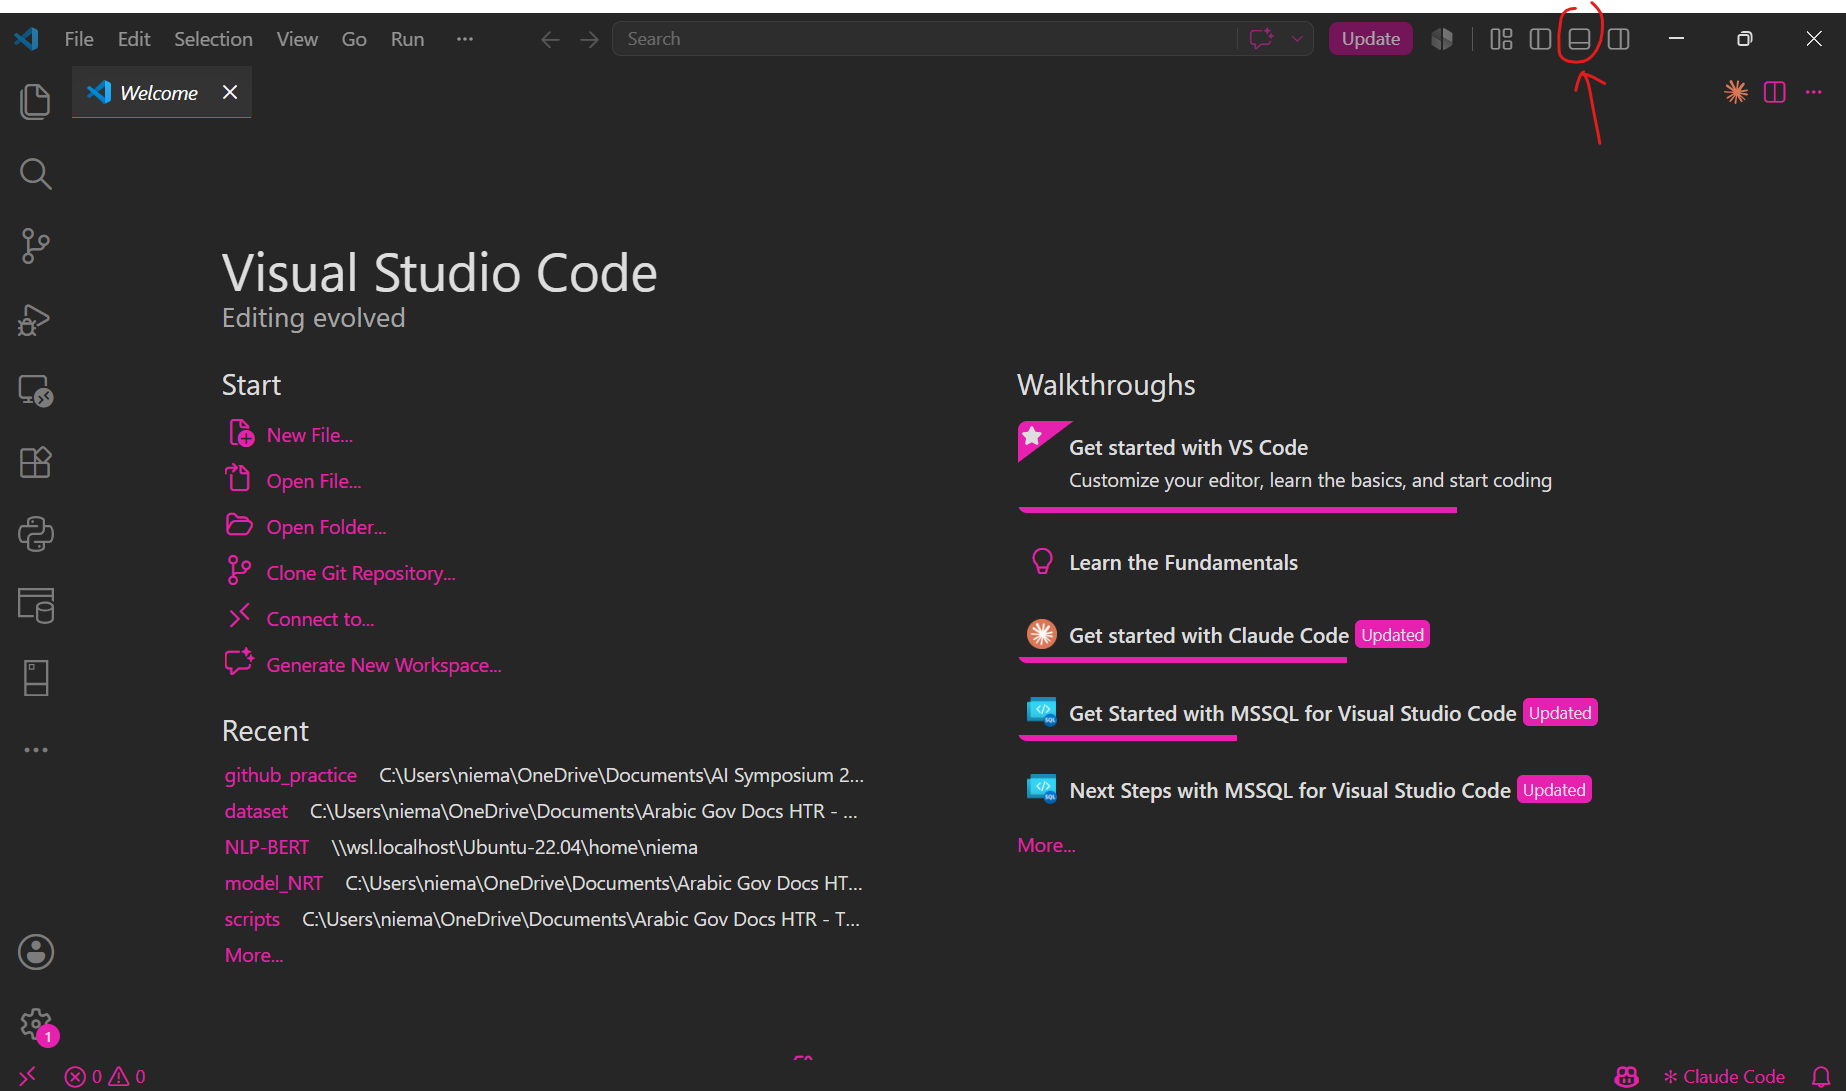
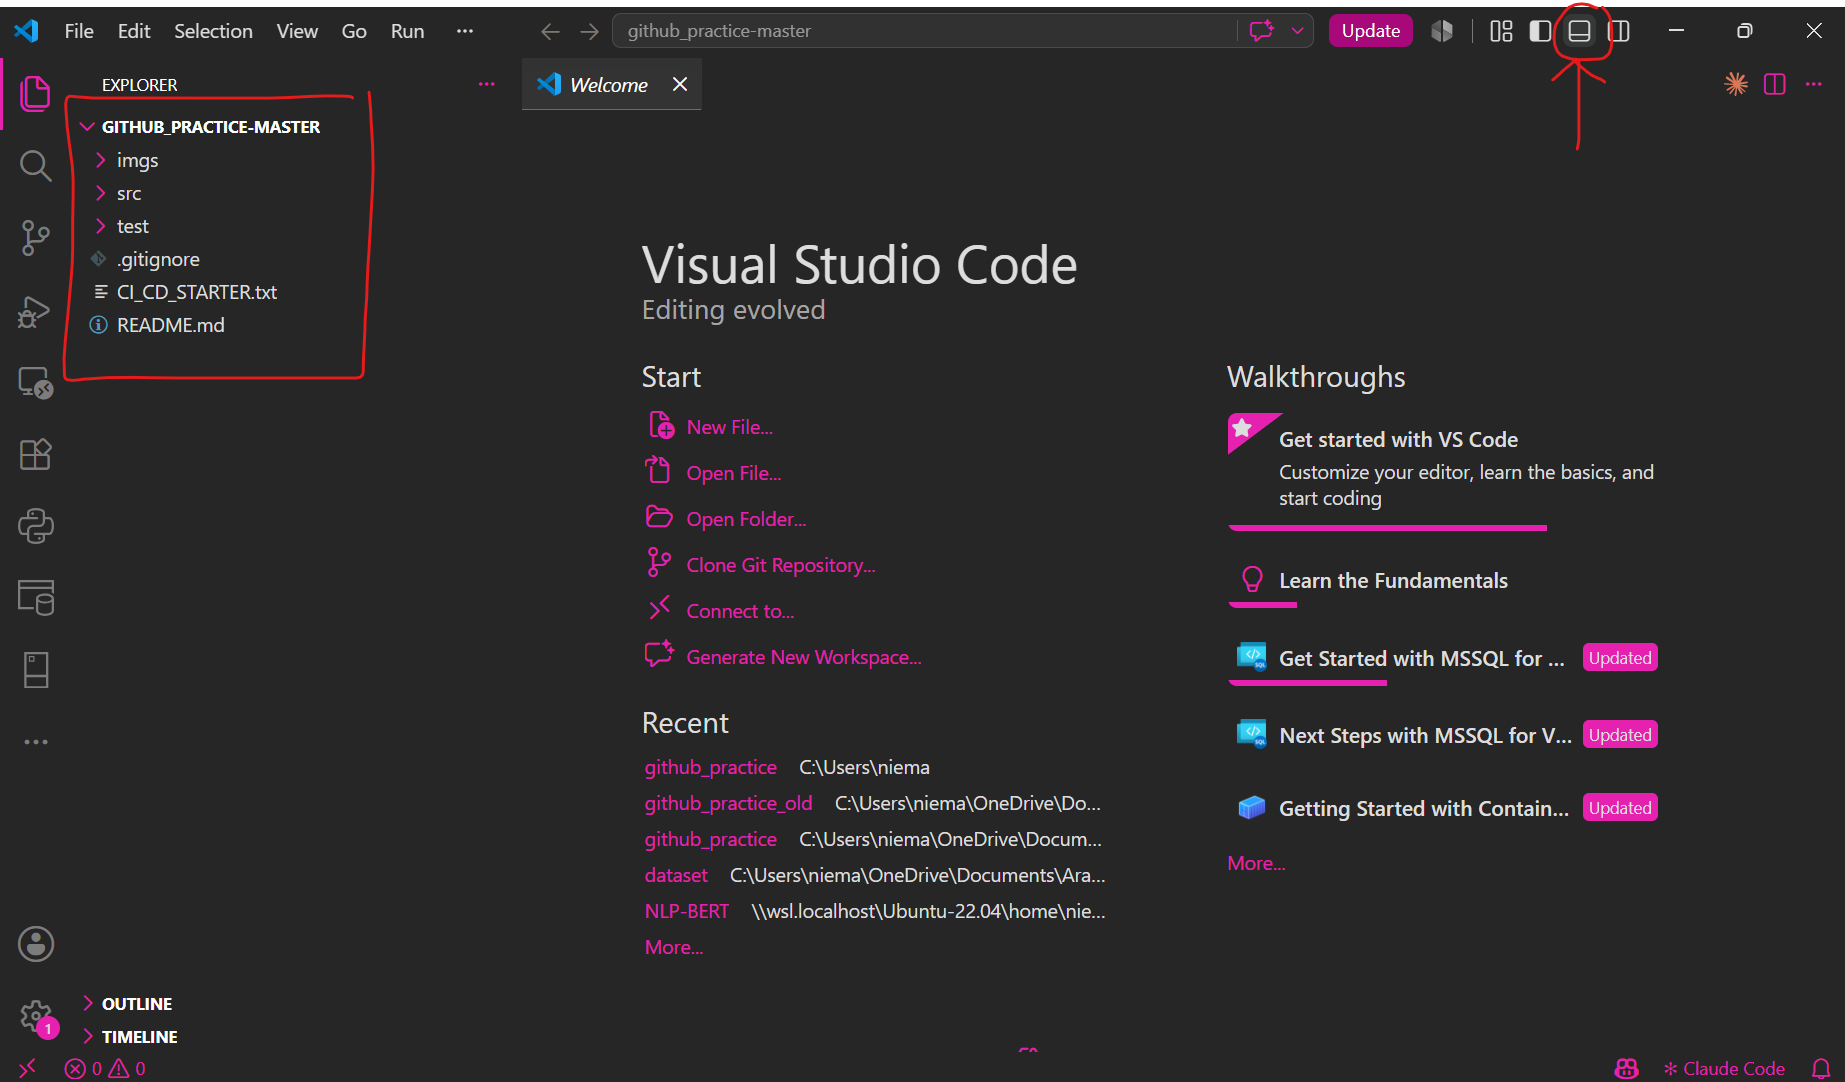
update tuto

diff --git a/README.md b/README.md
@@ -11,48 +11,82 @@ This project is a simple web calculator, use it to practice Github collaboration
 ## install node.js if not installed yet:
 - download from: [nodejs website](https://nodejs.org/)
 - verify that it is installed correctly:
+
+> run in your terminal
+
 ```bash
 node -v
 npm -v
 ```
 you should see something like:
-```bash
-v24.11.1
-```
 
-## 0. Open new window on VsCode then git bash (terminal if on mac or linux)
+![0](imgs/npm_working.png)
 
-![0](imgs/open_new_window.png) ![0](imgs/open_terminal.png) ![0](imgs/open_git_bash.png) ![0](imgs/git_bash.png)  
+## 1. Download the zip from this repo
 
-## 1. create a local repo and innitialize it
-```bash
-mkdir github_practice
-cd github_practice
-git init
-```
+![0](imgs/download_zip.png)
 
-open folder in new window (crtl + click)
-![0](imgs/open_folder.png)
+uzip the file:
+
+![0](imgs/unzip.png) ![0](imgs/unzip2.png)
+
+## 2. Open new window on VsCode
+
+![0](imgs/open_new_window.png)
+
+Open the unzipped folder on VsCode
+
+![0](imgs/open_folder_vscode.png)
+
+Open terminal (Ctrl+J)
+
+> you should see your folder open on the left side like in the image
+
+![0](imgs/open_terminal.png) 
+
+Open Git bash:
+
+![0](imgs/open_git_bash.png) 
+
+> you should see that you are located in the github_practive_master folder
+
+![0](imgs/git_bash.png)  
+
 
 ## 3. create a repote Github repo
 
-got to: Repositories > [new](https://github.com/new) and create a **private** repository.
+got to: Repositories > [new](https://github.com/new) and create a **public** repository.
 
 ![0](imgs/create_new_repo.png)
 
-## 4. past the files in this repo to your local repo and add all files
+> make sure your repo is public with no readme file or template
+
+![0](imgs/public_repo.png)
+
+## 4. **innitialize** the repo, **add** all the files and commit
+
+> run in git bash
+
 ```bash
+git init
 git add .
-```
-## 5. commit the added files
-```bash
 git commit -m "innitial commit"
 ```
-## 6. connect remote repo with local repo
 
-run the commands provided:
+> you should see all the commands runing
+
+![0](imgs/repo_init.png)
+
+## 5. connect remote repo with local repo
+
+run the commands provided by **Github** when you created a new repo:
 
 ![0](imgs/connect_remote_repo.png)
+
+> if your branch name is "master" intead of "main", make sure to always change the branch name when needed in this practice
+
+![0](imgs/branch_name.png)
+
 
 # Practice 1: GitHub Collaboration
 ## Part 1: Add Collaborators
@@ -62,11 +96,10 @@ run the commands provided:
 ![1](imgs/invite_collaborators.png)
 
 2. Ask each collaborator to **clone the repository**.
+
 ```bash
 git clone <your repo url>
 ```
-
-3. **Verify** that everyone can **access** the project.
 
 ## Part 2: Protect Main Branch
 
@@ -74,9 +107,9 @@ git clone <your repo url>
 
 ![1](imgs/rulset_page.png)
 
-3. Create a rule for the **main branch**: 
+3. Create a rule for the **main branch**, make sure to toggle: 
 - **Require pull requests** before merging changes.
-- **Require approvals** and passing status checks before merging.
+- **Require approvals** of **1** and passing status checks before merging.
 
 ![1](imgs/pritect_main.png) ![1](imgs/add_main_branch.png) ![1](imgs/branches_added.png) ![1](imgs/restrict_pull_request.png) 
 
@@ -138,11 +171,18 @@ git push
 ## Part 1: Unit testing
 ### 1. create a package.json file:
 
+> run this command in your terminal **(not in git bash)**
+
 ```bash
 npm init -y
 ```
 
+> The npm init command is used to initialize a new Node.js project by generating a package.json
+
+![2](imgs/run_npm_init.png)
+
 you should see:
+
 ```bash
 Wrote to github_practice\package.json:
 
@@ -164,6 +204,7 @@ Wrote to github_practice\package.json:
 ### 2. Update the package.json file:
 
 change [package.json](package.json) to add **"scripts": {"test": "jest"},**
+
 ```bash
 {
   "name": "github_practice",
@@ -179,12 +220,19 @@ change [package.json](package.json) to add **"scripts": {"test": "jest"},**
   "type": "commonjs"
 }
 ```
+> save the changes (ctrl+s)
+
+![2](imgs/update_json.png)
 
 ### 3. install jest:
+
+> run in you terminal **(not git bash)**
 
 ```bash
 npm install --save-dev jest
 ```
+
+![2](imgs/install_jest.png)
 
 you should see:
 ```bash
@@ -205,68 +253,36 @@ github_practice/
 ```
 
 ### 4. run unit tests:
+
+> run in terminal **(not in git bash)**
+
 ```bash
 npm test
 ```
 
-you should see:
-```bash
-> github_practice@1.0.0 test
-> jest
+> you should see all test passed in green
 
- PASS  ./calculator.test.js
-  Calculator - Addition
-    √ adds two positive numbers (2 ms)
-    √ adds a negative number (1 ms)
-    √ adds decimal numbers (1 ms)
-  Calculator - Subtraction
-    √ subtracts two numbers (1 ms)
-    √ returns a negative result (1 ms)
-  Calculator - Multiplication
-    √ multiplies two numbers (1 ms)
-    √ multiplying by zero returns zero (1 ms)
-    √ multiplies decimal numbers (1 ms)
-  Calculator - Division
-    √ divides two numbers (1 ms)
-    √ divides decimal numbers (1 ms)
-    √ throws an error when dividing by zero (5 ms)
+![2](imgs/npm_test.png)
 
-Test Suites: 1 passed, 1 total
-Tests:       11 passed, 11 total
-Snapshots:   0 total
-Time:        0.793 s
-Ran all test suites.
-```
 
 ## Part 3: Continus Integration
 
-1. create a [CI.yaml](.github/wordkflow/CI.yml) file:
+1. create a [CI.yaml](.github/wordkflow/CI.yml) file in the root of the folder inside .github/workflows:
+
+> this is where github can see the ations you want to automate
+
 ``` text
 github_practice/
 ├── .github/
     └── workflows/
         └── CI.yml
 ```
-your local repo should be looking like this:
-``` text
-github_practice/
-├── .github/
-│   └── workflows/
-│       └── CI.yml
-├── imgs/
-├── node_modules/
-├── src/
-│   ├── view.html
-│   └── calculator.js
-├── test/
-│   └── calculator.test.js
-├── .gitignore
-├── CI_CD_STARTER.txt
-├── package-lock.json
-├── package.json
-└── README.md
-```
-> if your brache name is master, replace main with 'master'
+
+![2](imgs/create_CI.png)
+
+> if your brache name is **'master'**, replace **'main'** with **'master'**
+
+copy this into the file:
 ``` yaml
 name: Calculator CI
 
@@ -305,24 +321,27 @@ jobs:
       - name: Run Jest tests
         run: npm test
 ```
-2. Make sure the calculator works locally: open [view.html](src/view.html) in your browser.
 
-![0](imgs/calculator_html.png)
+![2](imgs/CI_file.png)
 
-3. commit and push you code:
+2. commit and push you code:
+
+> run this on git bash (replace main with master if your branch name is master)
+
 ```bash
-git add .github/workflows/CI.yml
+git add .
 git commit -m "CI: trigger workflow on main" # or master
 git push origin main # or master
 ```
-4. Confirm that the CI workflow passes.
+
+3. Confirm that the CI workflow passes.
 
 ![1](imgs/CI_pass_check.png) ![2](imgs/CI_pass_check2.png)
 
 > if the test does not pass try npm upgarde and push again, or verify that your main branch name is correct (can be main or master) 
 
 ## Part 4: Continus Deployement
-1. create a [CD.yaml](.github/wordkflow/CD.yml) file:
+1. create a [CD.yaml](.github/wordkflow/CD.yml) file in the root of the folder inside .github/workflows:
 ``` text
 github_practice/
 ├── .github/
@@ -330,7 +349,12 @@ github_practice/
         ├── CI.yml
         └── CD.yml
 ```
-1. in you [CD.yaml](.github/wordkflow/CD.yml) file add at the end of the file:
+
+![2](imgs/create_CD.png)
+
+> if your brache name is **'master'**, replace **'main'** with **'master'**
+
+copy this into the file:
 ```yml
 name: Calculator CD
 
@@ -380,20 +404,26 @@ jobs:
         id: deployment
         uses: actions/deploy-pages@v4
 ```
+
+![2](imgs/CD_file.png)
+
 2. Enable GitHub Pages in the repository settings.
 
 ![3](imgs/enable_github_page.png)
 
 3. commit and push you code
 ```bash
-git add .github/workflows/CD.yml
+git add .
 git commit -m "CD: trigger deployment on main" # or master
 git push origin main # or master
 ```
 4. Confirm that the CD workflow passes.
 
-![4](imgs/CD_pass_check.png) ![5](imgs/CD_pass_check2.png)
+![4](imgs/CD_pass_check.png) 
+![5](imgs/CD_pass_check2.png)
 
 6. Open the published website and test the calculator.
+
+> the url is: [your github username].github.io/[your repo name]
 
 ![5](imgs/CD_pass_check3.png)
